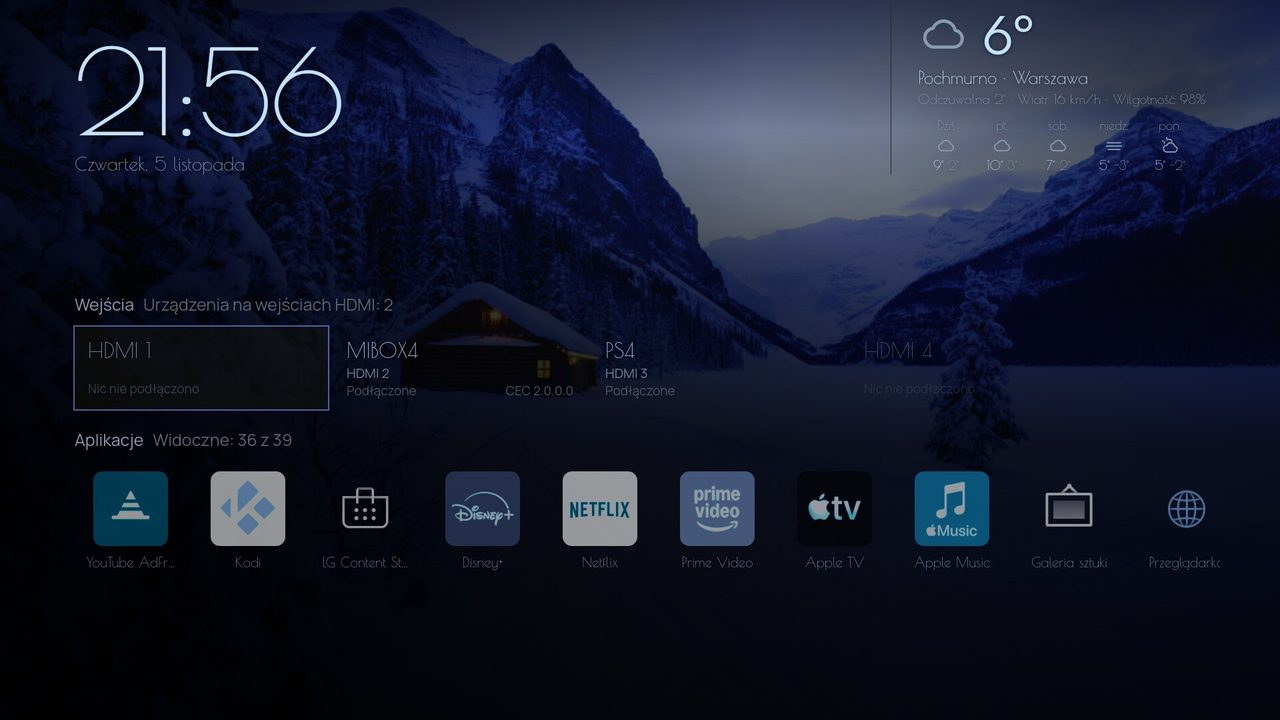
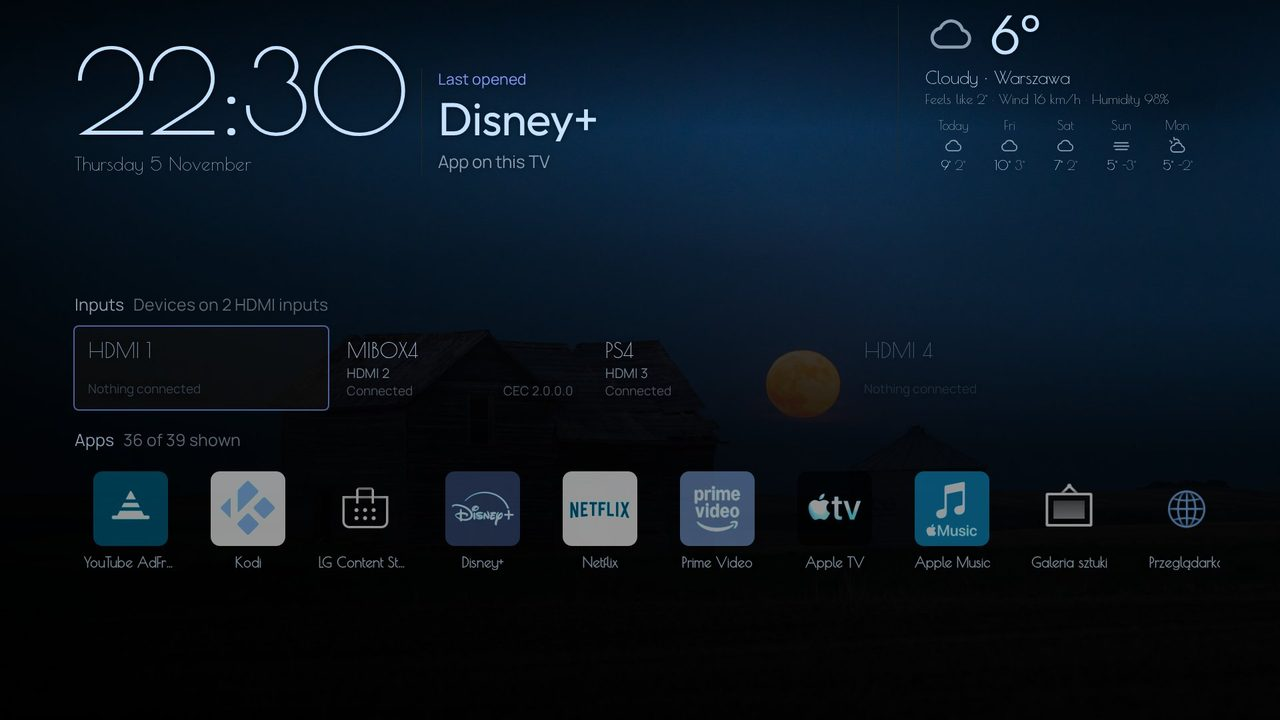
README: screenshots of Glasshouse Home in English
Claude-Session: https://claude.ai/code/session_01W3LdqnsWxFoGkMF8Eo1rtz

diff --git a/README.md b/README.md
@@ -152,7 +152,7 @@ With **Live preview** and **Preview in the tile** on, the input's picture stayed
 
 ## Screenshots
 
-All taken on an LG OLED55CX. The HDMI preview does not show in screenshots: the TV captures only the page, not the video plane. The Terminal and OLED Black shots were taken before icon styles came, so their icons show in colour.
+Glasshouse Home in English, as served by an LG OLED55CX: the TV's own Home page and data, drawn in a desktop browser at 1920 × 1080 so that the language could be English (the TV runs in Polish). The live HDMI preview cannot be shown in a screenshot: the TV captures only its pages, not the video plane, so the tiles show no picture here.
 
 <p align="center"><img src="docs/screenshots/fork/themes-grid.jpg" width="900" alt="The ten themes side by side"></p>
 
@@ -166,7 +166,7 @@ All taken on an LG OLED55CX. The HDMI preview does not show in screenshots: the 
 
 **The weather panel**
 
-<img src="docs/screenshots/fork/weather-panel.jpg" width="560" alt="Weather panel: 6°, cloudy, Warsaw, feels-like, wind, humidity and five days">
+<img src="docs/screenshots/fork/weather-panel.jpg" width="560" alt="Weather panel: 6°, cloudy, Warsaw, feels like, wind, humidity and five days">
 
 **Web dashboard → Home → Hearth theme**
 
